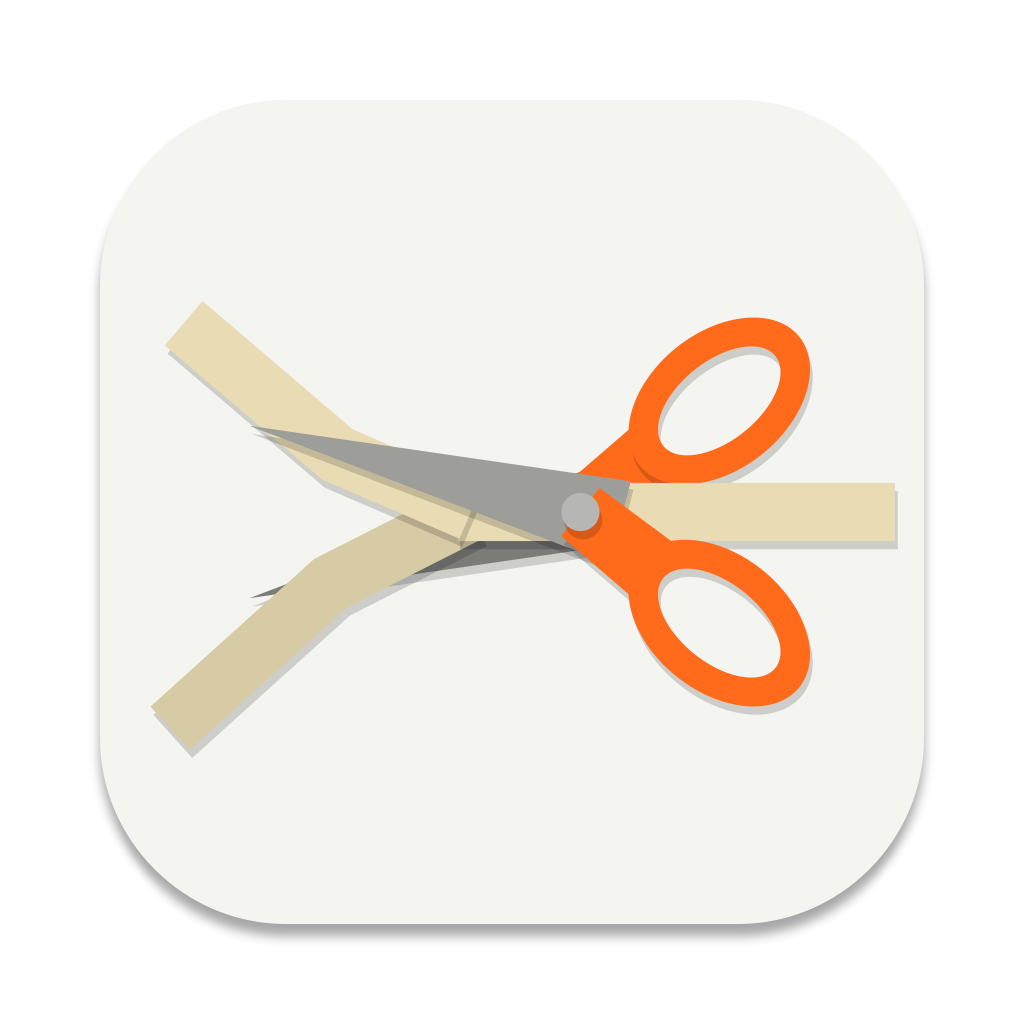
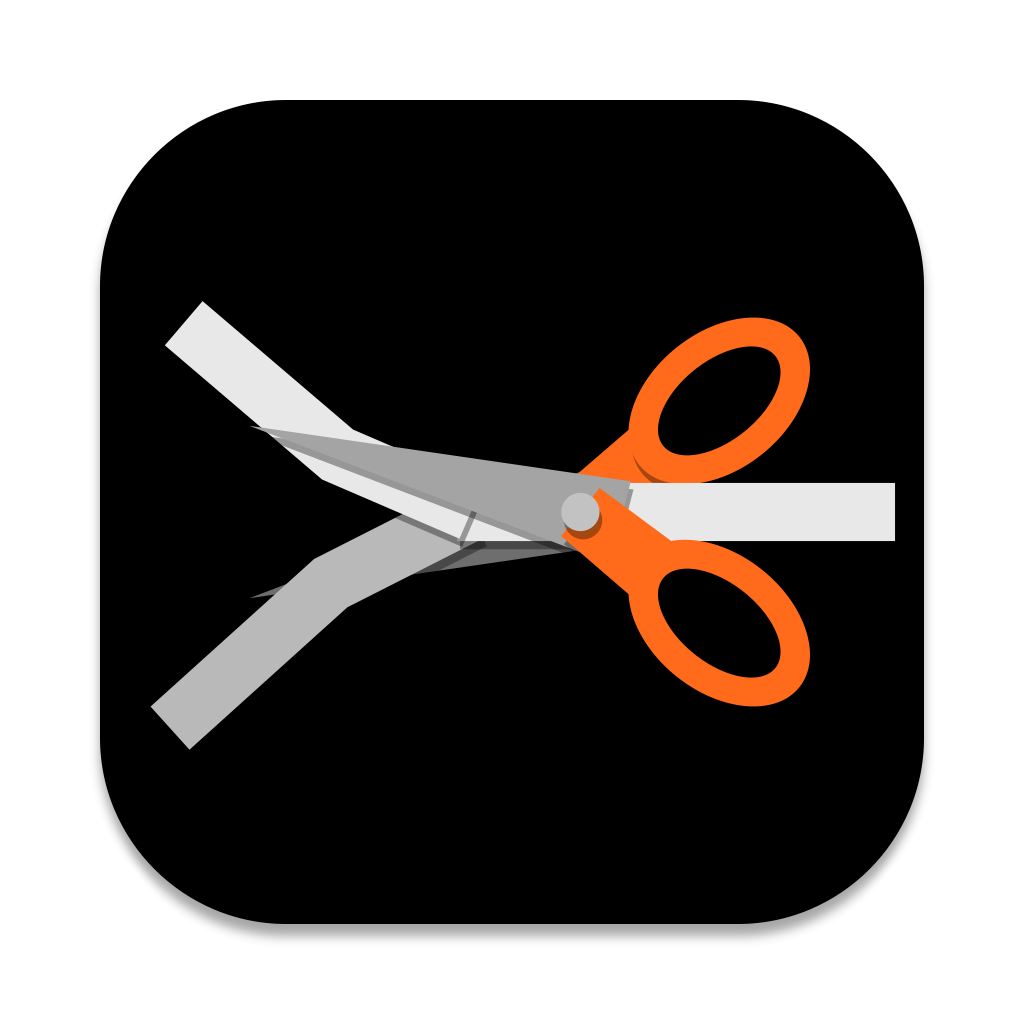
Skin docs: the dark theme, the grid and the beat
docs/skin.md describes the editor as it is now, and the pictures and the
app icon are redrawn from it.

diff --git a/docs/skin.md b/docs/skin.md
@@ -6,66 +6,73 @@ code is in `src/ui`; every value below lives in `src/ui/Theme.h` and
 
 ## The idea
 
-Livecut cuts audio, so the editor is cut paper. Everything is ink on paper
-except one thing: the pad, a sheet of coloured card with a picture laid on it
-in pieces of the same card. Each program has its own colour and its own
-picture, so you can tell what is playing from across the room. The picture is
-drawn in code, as vectors, every frame: it shows what the program does, the
-pad's two axes move it the way they move the sound, and it answers every new
-block of cuts.
+Livecut cuts audio, so the pad is cut card. The editor is black with white
+type and controls, and the only colour on it is a program's: the pad is a
+sheet of the program's colour, with a picture laid on it in pieces of card in
+tones of that colour. Each program has its own colour and its own picture, so
+you can tell what is playing from across the room. The picture is drawn in
+code, as vectors, every frame: it shows what the program does, the pad's two
+axes move it the way they move the sound, and it keeps time with the host.
 
-The original Livecut (2004) was a white panel with orange controls. The paper
-and Cut's orange come from it.
+The original Livecut (2004) was a white panel with orange controls. Cut's
+orange comes from it.
 
 ## Rules
 
-- **Colour belongs to the programs.** Controls are ink and paper. The only
+- **Colour belongs to the programs.** Controls are white on black. The only
   colour outside the pad is a program's own: its tab, and the block being cut
   on the phrase tape.
 - **A control's name is its label.** No captions under controls, no taglines,
-  no helper text on screen. If something needs explaining, change the layout.
+  no helper text on the pad's surface. If something needs explaining, change
+  the layout.
 - **Tooltips are for choices, not for the pad.** Tabs and switches may explain
   themselves on hover. Nothing pops up over the art; the pad's instructions
   are help text for screen readers.
-- **Status takes the tape's place.** With no phrase to show, the header says
-  what to do next where the tape would be.
-- **Motion is quiet, and means something.** At rest the art drifts slowly;
-  while the pad plays it runs faster; each new block of cuts kicks it, and it
-  settles in 0.6 s. A program change crossfades the pad (180 ms), each new
-  block sends a ring out from the pointer mark (320 ms) and the About sheet
-  fades (160 ms).
+- **Status takes the tape's place.** With no phrase to show, the editor says
+  what to do next where the tape would be. On the Classic pages a control's
+  status sits beside that control.
+- **Motion keeps time.** While the pad cuts, its art follows the host's beat,
+  the pointer mark swells on each beat, and a tab that is waiting for its
+  switch lights on each beat. Each new block of cuts kicks the art, which
+  settles in 0.6 s, sends a ring out from the pointer mark (320 ms), and
+  drops CUT in the wordmark under its blade, to spring back (300 ms). At rest
+  the art keeps a slow pulse of its own, a beat every two seconds. A program
+  change crossfades the pad (180 ms) and the About sheet fades (160 ms).
 - **No pictures in files.** Everything on screen is drawn in code from the
   values in `Theme.h`, so it stays sharp at any size and there is nothing to
   regenerate. The only binary assets are the font and the app icon, which
   `LivecutTests "[.icon]"` draws.
-- **The Classic pages keep their layout** and take the same controls.
+- **One grid.** Both surfaces are laid out on it; see Layout.
 
 ## Colour
 
 | Token | Value | Use |
 |---|---|---|
-| `paper` | `#F4F4F1` | The editor |
-| `well` | `#E9E9E5` | A section set into the paper (Classic pages) |
-| `rule` | ink at 14% | Hairlines, tracks, outlines |
-| `ink` | `#000000` | Text, thumbs, anything chosen |
-| `inkMuted` | ink at 60% | Values and secondary status |
+| `backdrop` | `#000000` | The editor |
+| `well` | `#161616` | A card on the Classic pages, and a tab at rest |
+| `rule` | white at 18% | Hairlines, tracks, outlines |
+| `ink` | `#FFFFFF` | Text, thumbs, anything chosen |
+| `inkMuted` | white at 60% | Values and status |
+| `onColour` | `#000000` | Text and marks on a program's colour |
 | `accent` | `#FF6B1A` | Cut's colour, and the Classic pages' block |
 
-| Program | Colour | Its picture | X | Y | A new block |
-|---|---|---|---|---|---|
-| Cut | `#FF6B1A` | Strips of tape, cut on the diagonal | More pieces | Pieces slide further out of place | Re-edits the pieces |
-| Bounce | `#FA6E8C` | A ball's hops | More hops | Hops climb instead of dying away | Squashes the ball |
-| Glitch | `#EC5FB3` | Tiles in rows | Smaller, more tiles | Columns stair from falling to rising | Slips other rows sideways |
-| Suction | `#AB70F0` | A tunnel, drawing inward | Slides it left to right | Squeezes it narrower | Bursts it open |
-| Filter | `#48A4F2` | A low-pass response, layer on layer | Moves the cutoff | Raises the resonant peak | Rings the peak |
-| Tape | `#34C9C5` | Two reels and the tape between | Slacker tape | More loops of it | Brakes the reels |
-| Loops | `#6CD04F` | Rings inside rings, each turning twice as fast | A smaller loop | More loops nested inside | Swells the rings |
-| Rush | `#FCD21C` | Wedges racing to one point | Lifts the point, from drag to rush | Starts the fan further back | Lands on the point |
+| Program | Colour | Its picture | X | Y | On the beat | A new block |
+|---|---|---|---|---|---|---|
+| Cut | `#FF6B1A` | Strips of tape, cut on the diagonal | More pieces | Pieces slide further out of place | Rows shunt against each other | Re-edits the pieces |
+| Bounce | `#FA6E8C` | A ball's hops | More hops | Hops climb instead of dying away | One hop to a beat | Swells the landings |
+| Glitch | `#EC5FB3` | Tiles in rows | Smaller, more tiles | Columns stair from falling to rising | Tiles light on the sixteenths | Slips other rows sideways |
+| Suction | `#AB70F0` | A tunnel, drawing inward | Slides it left to right | Squeezes it narrower | A ring every two beats | Bursts it open |
+| Filter | `#48A4F2` | A low-pass response, layer on layer | Moves the cutoff | Raises the resonant peak | The peak swells | Rings the peak |
+| Tape | `#34C9C5` | Two reels and the tape between | Slacker tape | More loops of it | Reels turn a third of the way round | Brakes the reels |
+| Loops | `#6CD04F` | Rings inside rings, each turning twice as fast | A smaller loop | More loops nested inside | The outer ring turns once a bar | Swells the rings |
+| Rush | `#FCD21C` | Wedges racing to one point | Lifts the point, from drag to rush | Starts the fan further back | A dart down each seam once a bar | Lands on the point |
 
-Each colour is light enough for ink to read on it, and the art is drawn in
-tones of it alone. `tests/SkinTests.cpp` checks both: a 4.5:1 contrast with
-ink, and that the art's average hue matches. It also checks that every
-picture moves with time, with each axis and at a new block.
+Each colour is light enough for black to read on it, and for its tab's name
+to read on a resting tab. The art's bright tones are the colour itself; its
+deep tones lean toward red or blue on their way to black, so the warm colours
+never pass through brown. `tests/SkinTests.cpp` checks the contrast (4.5:1
+both ways), that the art's bright card matches its colour, and that every
+picture moves with the beat, with each axis and at a new block.
 
 ## Type
 
@@ -74,34 +81,51 @@ One family, [Bricolage Grotesque](https://github.com/ateliertriay/bricolage)
 text at 400, 500, 600 or 700; `numberFont` adds tabular figures for values
 that change; `displayFont` is the wordmark's condensed 800.
 
-Sizes: 14 for controls, 13 on the pad's tags, 16 for the About sheet's body
-and the Classic pages' section titles.
+Sizes: 14 for controls and card titles, 13 on the pad's tags, 12 for status
+and advice, and 16 for the About sheet's body. Where lines of different sizes
+are stacked, each is set from its first letter's own edge (`sideBearing`), so
+they share one.
 
 ## Layout
 
-The editor is laid out once at 880 × 724 and scaled as a whole. On the pad
-surface, top to bottom: the wordmark, the phrase tape and the surface switch;
-the program tabs; the pad's sheet; then Hold, Straight, Beat / Bar and Mix.
+The editor is laid out once at 880 × 724 and scaled as a whole. It is a stack
+of bands, 20 points apart and 20 from every edge. The header is the same on
+both surfaces: the wordmark at the left, the surface switch at the right, and
+everything in it on one centre line.
 
-The pad's sheet shows 8 points around the art on the left and top, and 24 on
-the right and bottom, where a marker on each edge follows the pointer mark.
-Those markers are the axis sliders, so the keyboard and screen readers reach
-each axis.
+**The pad surface.** The tape runs along the header, centred between the
+wordmark and the switch, which are the same width. Below are the program
+tabs, the pad's sheet, then Hold, Straight, Beat / Bar and Mix on one centre
+line. The sheet shows the same 20 points around the art on every side, with a
+marker on each side that follows the pointer mark. The bottom and right sides
+are the axis sliders, so the keyboard and screen readers reach each axis.
+
+**The Classic surface.** The header holds a tab for each page, each as wide
+as its name, then the procedures. Below it are the tape, a page of cards, and
+a strip of controls that every page shares. Cards sit in halves or thirds, 12
+apart, with 12 of padding at their sides and 8 above and below their rows. A
+row is 28 high (a title, a switch, a drop-down or a button) or 40 (a slider
+under its caption and value), and rows are 4 apart. A slider's thumb travels
+from its caption's edge to its value's edge.
+
+`tests/SkinTests.cpp` holds both surfaces to the grid.
 
 ## Art
 
 `src/ui/PadArt.cpp` has one function per program. Each is a pure function of
-an `ArtMotion` (a clock, the two axes, and the state of the last block), so
-the same motion always draws the same picture and a test can step it. `lay`
-puts a piece of card down on its own shadow.
+an `ArtMotion` (a count of beats, the two axes, and the state of the last
+block), so the same motion always draws the same picture and a test can step
+it. `lay` puts a piece of card down on its own shadow.
 
-The pad moves the motion on from the display's refresh, through a
-`FrameClock`: 30 frames a second at rest, and 60 while it plays or something
-on it is changing. It draws the art in software into an image and copies that
-to the screen, because the platform renderers take several times longer to
-draw it themselves. With both axes at their busiest a frame costs 1.8 to
-4.4 ms that way at Retina size, against up to 8 ms drawn directly on macOS
-(`LivecutTests "[.benchmark]" -s`).
+While the pad cuts, the count of beats is the host's: the pad measures the
+tempo from the phrase position and corrects its phase a little each frame, so
+the picture stays on the beat without jumping. The pad moves the motion on
+from the display's refresh, through a `FrameClock`: 30 frames a second at
+rest, and 60 while it plays or something on it is changing. It draws the art
+in software into an image and copies that to the screen, because the platform
+renderers take longer to draw it themselves. With both axes at their busiest
+a frame costs 1.7 to 4.5 ms of processor time that way at Retina size,
+against up to 9 ms drawn directly on macOS (`LivecutTests "[.benchmark]" -s`).
 
 To add a program: give it a colour in `Theme.cpp` and a scene in `PadArt.cpp`.
 Its tab follows from the Pad Program parameter's choices.

diff --git a/README.md b/README.md
@@ -22,8 +22,8 @@ Livecut; Livecut Redux opens sessions saved with those versions.
 
 Press the pad to cut and let go to stop on the next beat or bar; drag to play
 two settings of the program at once. Each of the eight programs has its own
-colour and its own picture, drawn in pieces of that colour, which moves with
-the pad and answers every cut. The strip across the top is the phrase, cut
+colour and its own picture, drawn in pieces of that colour, which keeps time
+with the host, moves with the pad and answers every cut. The strip across the top is the phrase, cut
 into its bars: the block playing now is in the program's colour, and the line
 is the playhead. Livecut Redux
 follows the host's transport; while the host is stopped, dry audio passes
